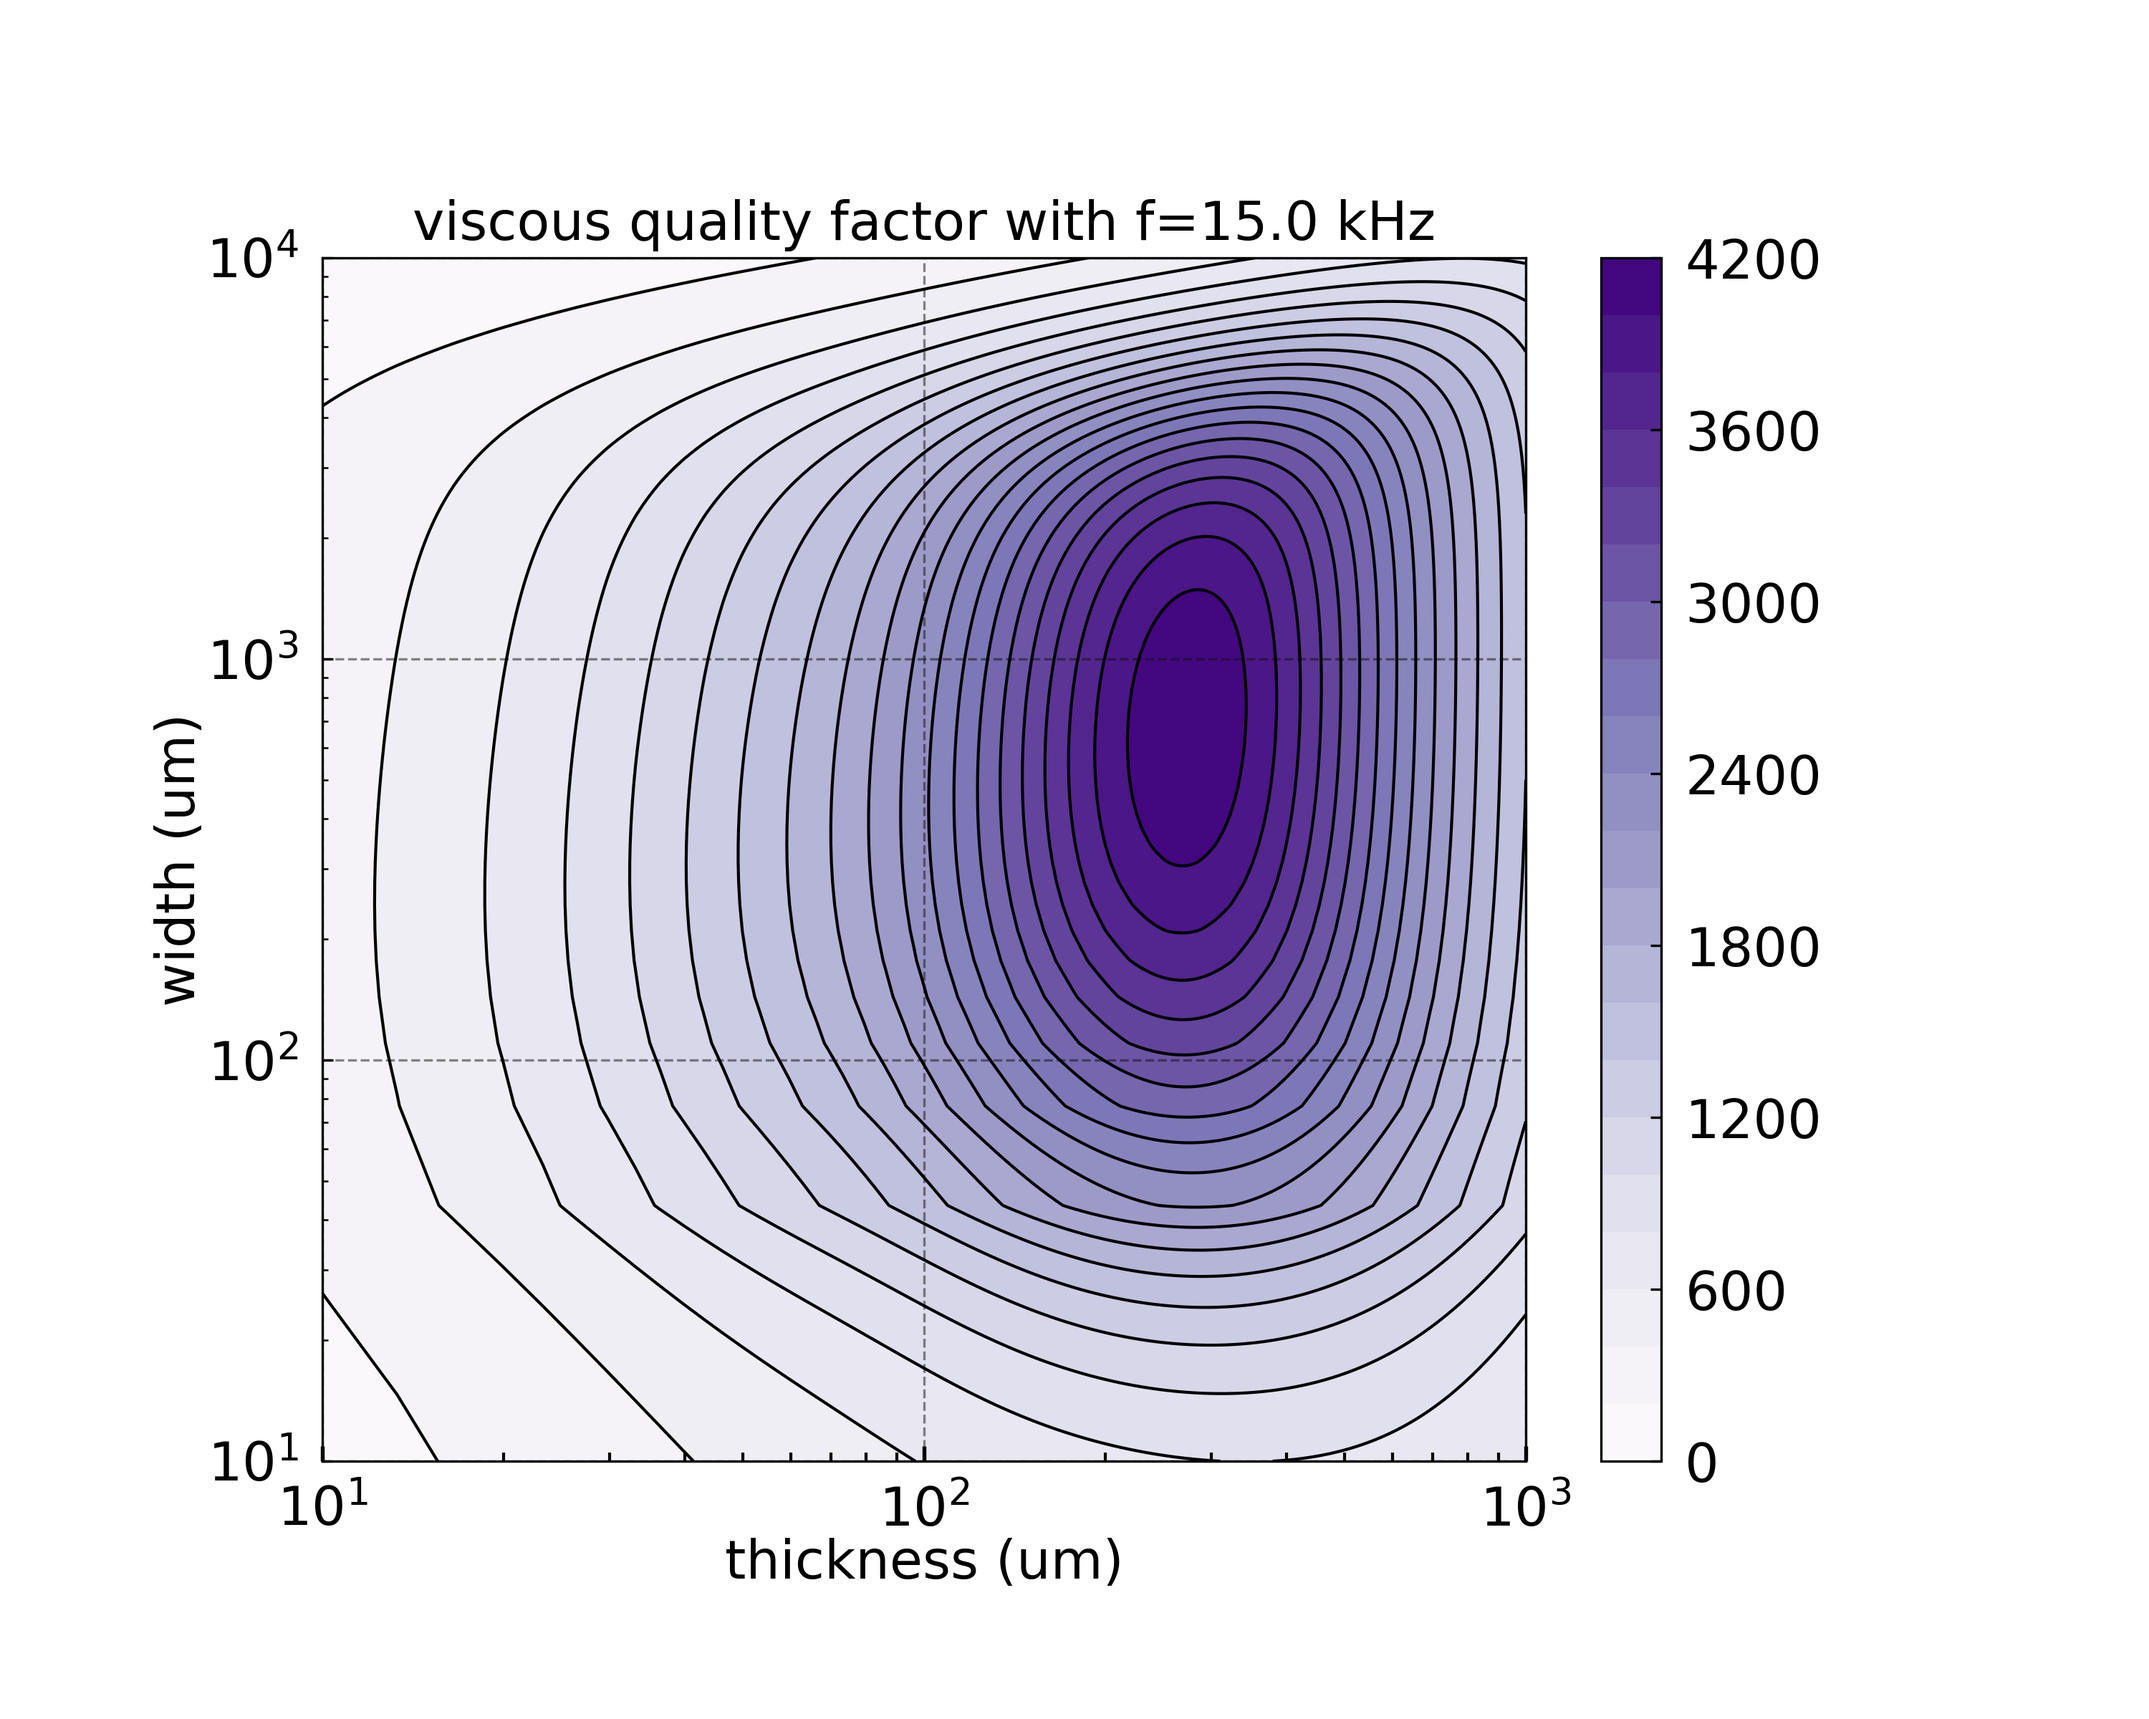
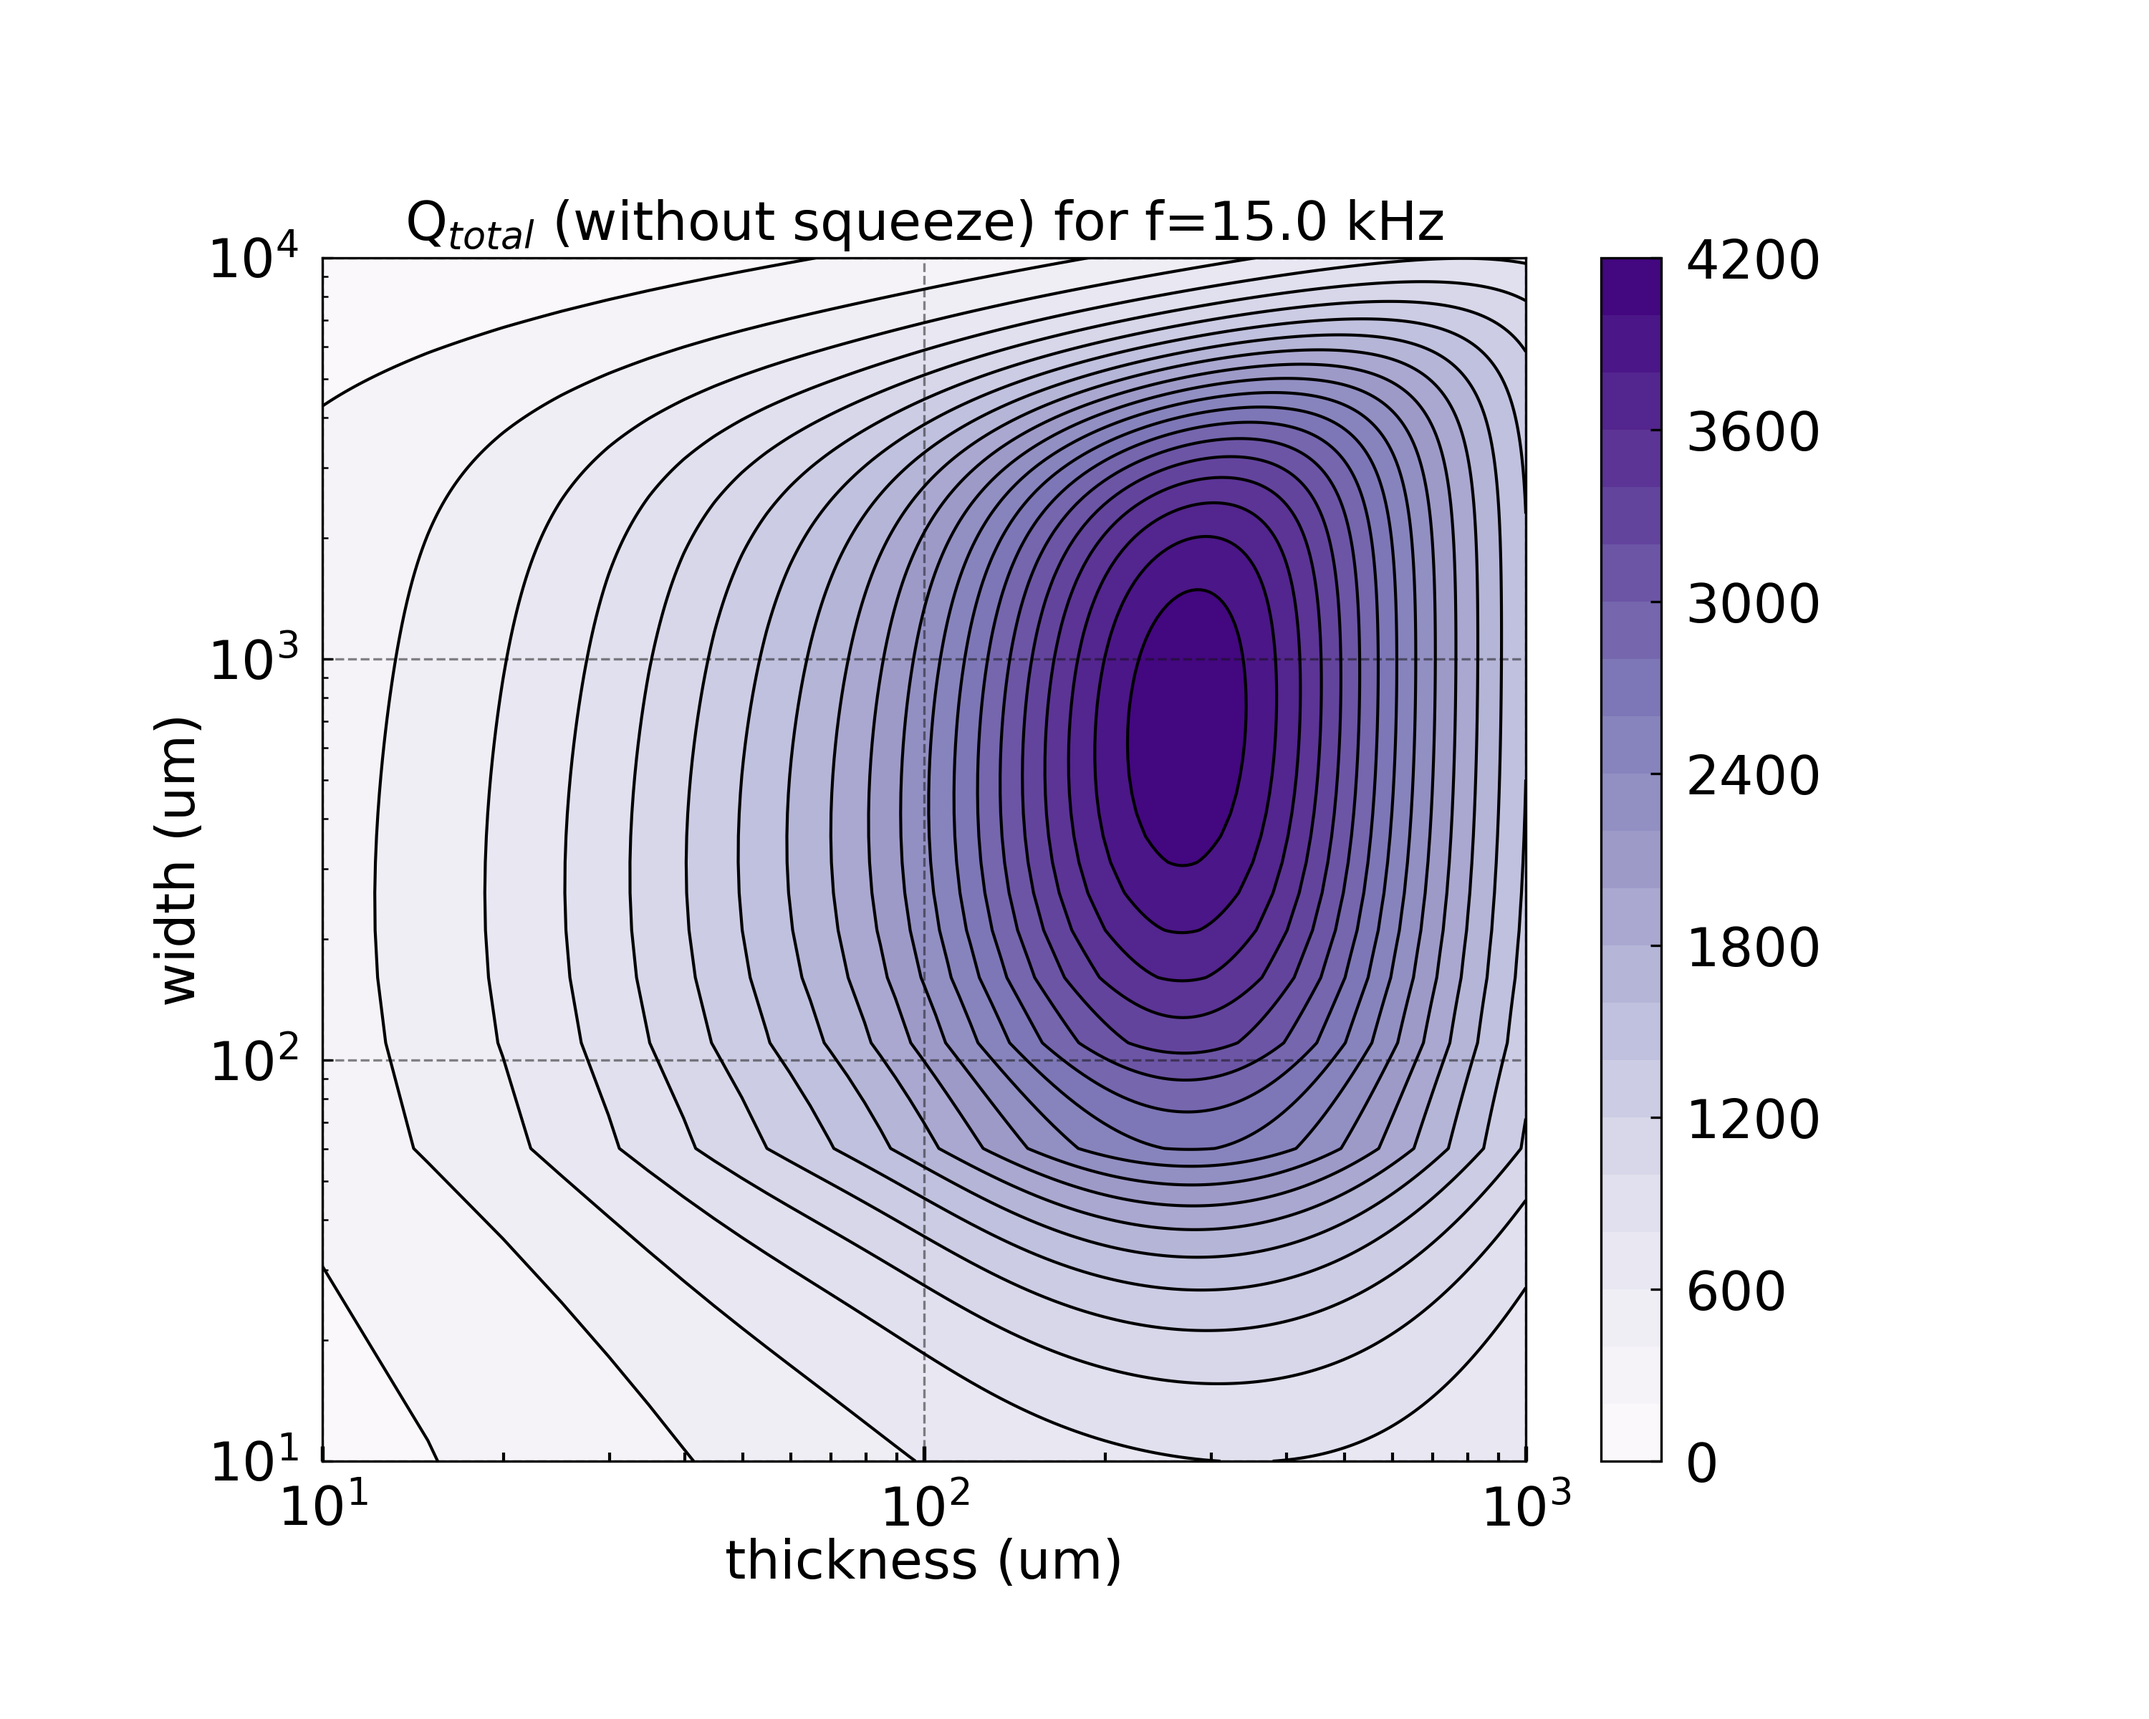
new title

diff --git a/4-all_damping_without_sq.py b/4-all_damping_without_sq.py
@@ -27,7 +27,7 @@ start = time.time()
 Air = fm.Fluid(name='air')
 Si110 = fm.Material(name='silicon_100')
 
-nbr_points = 300
+nbr_points = 200
 
 Width = np.linspace(10e-6,10e-3,nbr_points) #[m]
 Thickness = np.linspace(10e-6,10e-4,nbr_points) #[m]
@@ -136,7 +136,7 @@ fig, _ = plt.subplots()
 ax1 = plt.subplot2grid(gridsize, (0, 0), colspan=1, rowspan=1)
 cs1 = ax1.contourf(T*1e6, W*1e6, data['Qtot'], cmap=cmap, levels = nbr_lvl)
 ax1.contour(cs1, colors='k')
-ax1.set_title(r'viscous quality factor with f=%.1f kHz'%(Freq*1e-3))
+ax1.set_title(r'Q$_{total}$ (without squeeze) for f=%.1f kHz'%(Freq*1e-3))
 ax1.set_ylabel('width (um)', labelpad=0)
 ax1.set_xlabel('thickness (um)', labelpad=0)
 ax1.set_xscale('log')

diff --git a/2-acoustice_force.py b/2-acoustice_force.py
@@ -188,7 +188,7 @@ fig, _ = plt.subplots()
 ax1 = plt.subplot2grid(gridsize, (0, 0), colspan=1, rowspan=1)
 cs1 = ax1.contourf(thickness_grid*1e6, width_grid*1e6, data_plot*1e12, cmap=cmap, levels = nbr_lvl)
 ax1.contour(cs1, colors='k')
-ax1.set_title(r'acoustic force (pN) with f=%.1f kHz'%(AcPress.freq_mod*1e-3))
+ax1.set_title(r'acoustic force (pN) for f=%.1f kHz'%(AcPress.freq_mod*1e-3))
 ax1.set_ylabel('width (um)', labelpad=0)
 ax1.set_xlabel('thickness (um)', labelpad=0)
 # ax1.grid(c='k', ls='-', alpha=0.3)

diff --git a/3-viscous_damping.py b/3-viscous_damping.py
@@ -134,7 +134,7 @@ fig, _ = plt.subplots()
 ax1 = plt.subplot2grid(gridsize, (0, 0), colspan=1, rowspan=1)
 cs1 = ax1.contourf(T*1e6, W*1e6, data['Qvis_sq'], cmap=cmap, levels = nbr_lvl)
 ax1.contour(cs1, colors='k')
-ax1.set_title(r'viscous quality factor with f=%.1f kHz'%(Freq*1e-3))
+ax1.set_title(r'Q$_{viscous}$ for f=%.1f kHz'%(Freq*1e-3))
 ax1.set_ylabel('width (um)', labelpad=0)
 ax1.set_xlabel('thickness (um)', labelpad=0)
 
